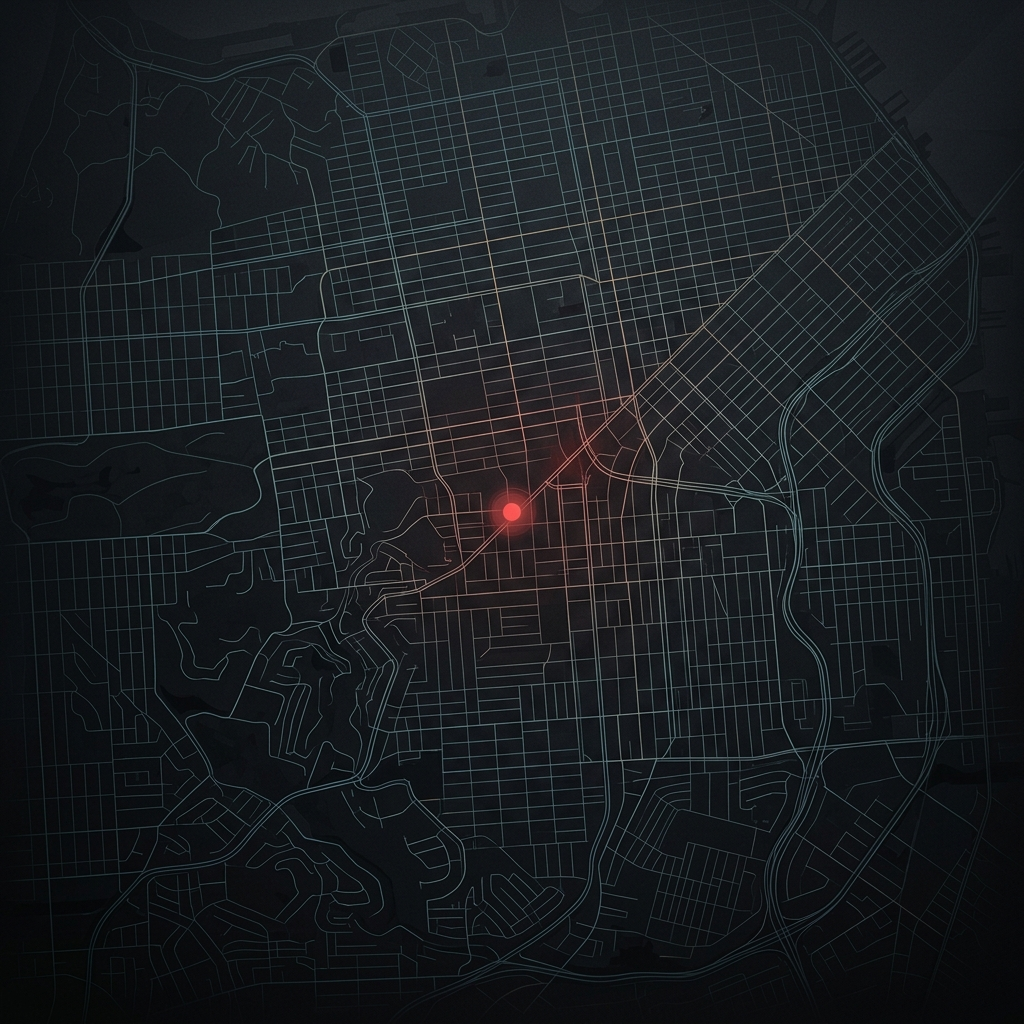
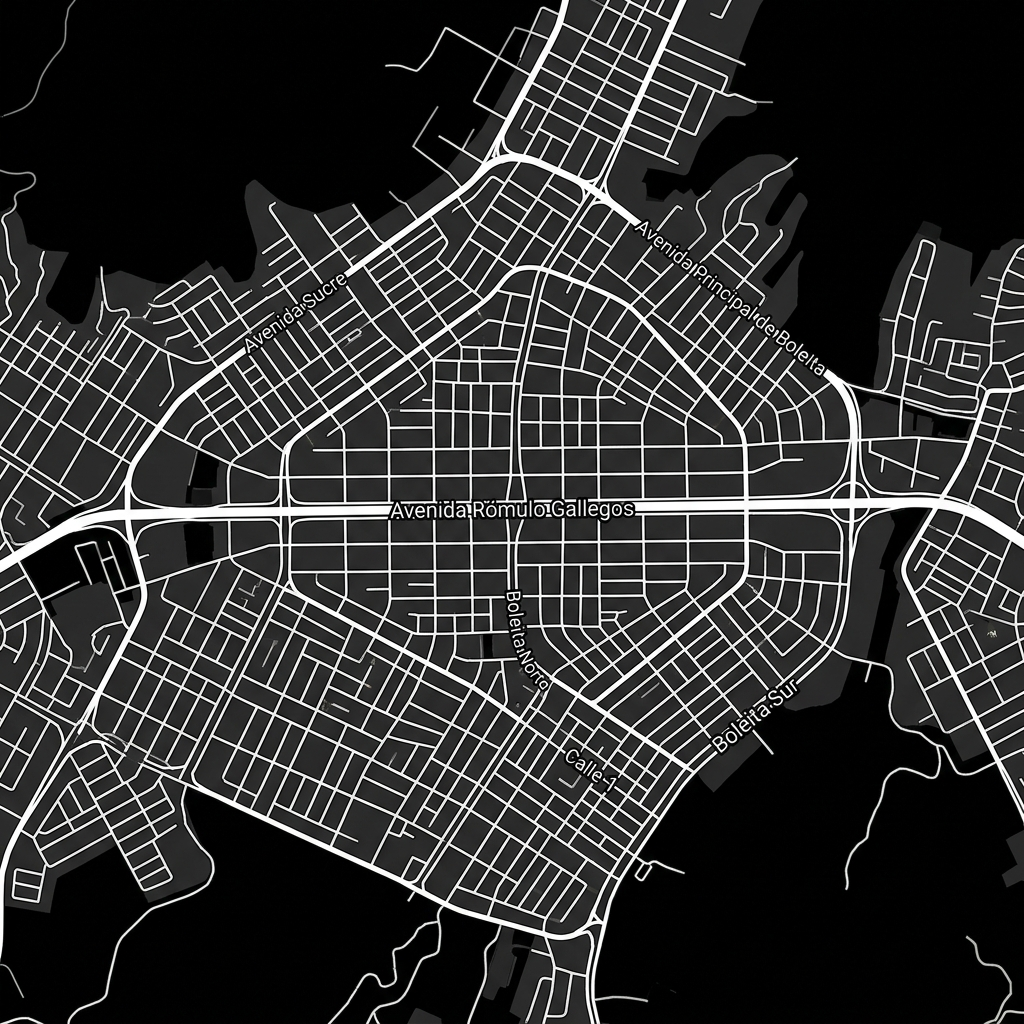
Actualizacion desde Administrador de Catalogo

diff --git a/map_embed.html b/map_embed.html
@@ -1,0 +1,46 @@
+<!DOCTYPE html>
+<html>
+<head>
+    <meta charset="utf-8">
+    <meta name="viewport" content="width=device-width, initial-scale=1.0">
+    <style>
+        body { margin: 0; padding: 0; background-color: #111; }
+        #map { position: absolute; top: 0; bottom: 0; width: 100%; }
+        /* Add a slight dark tint over the map to match the site's dark contrast */
+        #map::after {
+            content: '';
+            position: absolute;
+            top: 0; left: 0; width: 100%; height: 100%;
+            background: rgba(17, 17, 17, 0.4);
+            pointer-events: none;
+            z-index: 1000;
+        }
+    </style>
+    <link rel="stylesheet" href="https://unpkg.com/leaflet@1.9.4/dist/leaflet.css" />
+    <script src="https://unpkg.com/leaflet@1.9.4/dist/leaflet.js"></script>
+</head>
+<body>
+    <div id="map"></div>
+    <script>
+        // Exact coordinates for Todo Partes Horizonte area (Boleita, Caracas)
+        var map = L.map('map', {
+            center: [10.4900, -66.8300],
+            zoom: 16,
+            zoomControl: false,
+            attributionControl: false,
+            dragging: false,
+            scrollWheelZoom: false,
+            doubleClickZoom: false,
+            boxZoom: false,
+            keyboard: false,
+            touchZoom: false
+        });
+
+        // CartoDB Dark Matter with NO LABELS
+        L.tileLayer('https://{s}.basemaps.cartocdn.com/dark_nolabels/{z}/{x}/{y}{r}.png', {
+            maxZoom: 20,
+            subdomains: 'abcd'
+        }).addTo(map);
+    </script>
+</body>
+</html>

diff --git a/index.html b/index.html
@@ -490,10 +490,21 @@
             border-bottom: 1px solid var(--border-subtle);
             overflow: hidden;
             background-image: 
-                radial-gradient(circle at 50% 50%, rgba(234, 67, 53, 0.15) 0%, rgba(0,0,0,0.6) 100%),
+                radial-gradient(circle at 50% 50%, rgba(234, 67, 53, 0.2) 0%, rgba(0,0,0,0.3) 100%),
                 url('./assets/map_preview.png');
             background-size: 100% 100%, cover;
             background-position: center;
+        }
+
+        .map-iframe {
+            position: absolute;
+            top: 0;
+            left: 0;
+            width: 100%;
+            height: 100%;
+            border: none;
+            pointer-events: none;
+            z-index: 0;
         }
 
         .map-icon-large {
@@ -836,9 +847,10 @@
             
             <!-- Ubicacion -->
             <div class="info-card">
-                <div class="map-wrapper">
+                <div class="map-wrapper" style="background: #111; background-image: none;">
+                    <iframe class="map-iframe" width="100%" height="100%" frameborder="0" scrolling="no" marginheight="0" marginwidth="0" loading="lazy" src="./map_embed.html"></iframe>
                     <!-- Icono decorativo de mapa -->
-                    <svg class="map-icon-large" viewBox="0 0 24 24">
+                    <svg class="map-icon-large" viewBox="0 0 24 24" style="position: absolute; z-index: 1;">
                         <path d="M12 2C8.13 2 5 5.13 5 9c0 5.25 7 13 7 13s7-7.75 7-13c0-3.87-3.13-7-7-7zm0 9.5c-1.38 0-2.5-1.12-2.5-2.5s1.12-2.5 2.5-2.5 2.5 1.12 2.5 2.5-1.12 2.5-2.5 2.5z"/>
                     </svg>
                 </div>